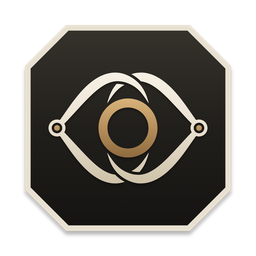
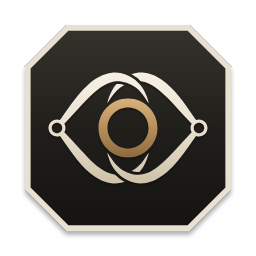
Caliper mark: remove the bronze dot in the hinge
Claude-Session: https://claude.ai/code/session_01VE6j3WRdUkYkmdJG6Q3Me5

diff --git a/site/index.html b/site/index.html
@@ -585,9 +585,7 @@
       <g id="hm-Caliper">
         <path id="hm-Iris" d="M630 512 C630 577.17 577.17 630 512 630 C446.83 630 394 577.17 394 512 C394 446.83 446.83 394 512 394 C577.17 394 630 446.83 630 512 Z M512 430 C466.713 430 430 466.713 430 512 C430 557.287 466.713 594 512 594 C557.287 594 594 557.287 594 512 C594 466.713 557.287 430 512 430 Z" fill="url(#hm-linear-gradient-2)" fill-rule="evenodd"/>
         <path id="hm-Left_caliper" data-name="Left caliper" d="M447.599 290.933 C460.479 289.59 473.418 290.314 486.063 293.111 C497.138 295.644 507.746 299.695 517.81 304.95 C534.417 313.74 549.475 325.272 561.469 339.795 C572.397 353.093 580.397 368.412 586.436 384.474 C588.711 390.551 590.736 396.721 592.514 402.962 C593.433 406.209 594.77 409.791 594.92 413.18 C593.57 411.854 592.543 410.104 591.478 408.549 C589.664 405.892 587.895 403.205 586.119 400.524 C581.046 392.869 575.908 385.254 570.288 377.987 C561.956 367.246 552.534 357.381 541.546 349.328 C530.758 341.46 518.754 335.508 506.19 331.05 C488.957 325.043 470.779 322.972 452.792 326.513 C433.184 330.498 415.436 340.334 399.371 351.977 C382.234 364.478 366.72 379.084 351.767 394.084 C336.611 409.32 322.023 425.108 307.482 440.927 C290.881 458.992 274.36 477.137 257.341 494.811 C260.302 499.854 262 505.729 262 512 C262 518.271 260.302 524.146 257.341 529.189 C277.914 550.553 297.758 572.604 317.899 594.373 C329.208 606.589 340.61 618.724 352.365 630.516 C367.966 646.133 384.193 661.34 402.263 674.092 C419.733 686.336 439.224 696.197 460.645 698.718 C462.75 700.365 464.538 702.578 466.493 704.414 C469.98 707.673 473.623 710.757 477.404 713.67 C481.821 717.055 486.414 720.197 491.153 723.113 C493.54 724.574 496.142 725.812 498.434 727.407 C481.48 733.04 463.71 734.975 445.955 732.879 C428.609 730.712 412.037 724.913 396.601 716.801 C369.308 702.292 346.01 681.3 325.354 658.528 C302.151 632.839 282.081 604.569 262.348 576.189 C254.855 565.408 247.4 554.6 239.794 543.899 C236.119 545.258 232.146 546 228 546 C209.222 546 194 530.778 194 512 C194 493.222 209.222 478 228 478 C232.146 478 236.119 478.742 239.793 480.101 C248.808 467.418 257.612 454.588 266.516 441.827 C281.617 420.197 297.028 398.753 313.985 378.526 C326.516 363.632 339.876 349.419 354.554 336.614 C380.952 313.73 412.278 294.859 447.599 290.933 Z M228 491 C216.402 491 207 500.402 207 512 C207 523.598 216.402 533 228 533 C239.598 533 249 523.598 249 512 C249 500.402 239.598 491 228 491 Z M592.015 614.669 C592.916 613.369 593.788 611.932 594.92 610.82 C594.796 613.615 593.753 616.538 593.02 619.224 C591.649 624.214 590.102 629.156 588.411 634.047 C581.579 653.726 572.049 672.488 558.112 688.118 C556.135 688.513 553.909 688.347 551.899 688.329 C547.771 688.265 543.666 687.903 539.586 687.272 C536.553 686.783 533.552 686.152 530.575 685.395 C529.204 685.037 527.669 684.778 526.397 684.146 C536.578 678.725 545.941 671.944 554.283 663.98 C562.036 656.548 568.844 648.222 575.13 639.53 C579.527 633.436 583.67 627.167 587.822 620.905 C589.207 618.818 590.593 616.731 592.015 614.669 Z" fill="url(#hm-linear-gradient-3)"/>
-        <path id="hm-Left_pivot" d="M239.5 512 C239.5 518.351 234.351 523.5 228 523.5 C221.649 523.5 216.5 518.351 216.5 512 C216.5 505.649 221.649 500.5 228 500.5 C234.351 500.5 239.5 505.649 239.5 512 Z" fill="url(#hm-linear-gradient-4)"/>
         <path id="hm-Right_caliper" data-name="Right caliper" d="M525.566 296.593 C542.52 290.96 560.29 289.025 578.045 291.121 C595.391 293.288 611.963 299.087 627.399 307.199 C654.692 321.708 677.99 342.7 698.646 365.472 C721.849 391.161 741.919 419.431 761.652 447.811 C769.145 458.592 776.6 469.4 784.206 480.101 C787.881 478.742 791.854 478 796 478 C814.778 478 830 493.222 830 512 C830 530.778 814.778 546 796 546 C791.854 546 787.881 545.258 784.207 543.899 C775.192 556.582 766.388 569.412 757.484 582.173 C742.383 603.803 726.972 625.247 710.015 645.474 C697.484 660.368 684.124 674.581 669.446 687.386 C643.048 710.27 611.722 729.141 576.401 733.067 C563.521 734.41 550.582 733.686 537.937 730.889 C526.862 728.356 516.254 724.305 506.19 719.05 C489.583 710.26 474.525 698.728 462.531 684.205 C451.603 670.907 443.603 655.588 437.564 639.526 C435.289 633.449 433.264 627.279 431.486 621.038 C430.567 617.791 429.23 614.209 429.08 610.82 C430.43 612.146 431.457 613.896 432.522 615.451 C434.336 618.108 436.105 620.795 437.881 623.476 C442.954 631.131 448.092 638.746 453.712 646.013 C462.044 656.754 471.466 666.619 482.454 674.672 C493.242 682.54 505.246 688.492 517.81 692.95 C535.043 698.957 553.221 701.028 571.208 697.487 C590.816 693.502 608.564 683.666 624.629 672.023 C641.766 659.522 657.28 644.916 672.233 629.916 C687.389 614.68 701.977 598.892 716.518 583.073 C733.119 565.008 749.64 546.863 766.659 529.189 C763.698 524.146 762 518.271 762 512 C762 505.729 763.698 499.854 766.659 494.811 C746.086 473.447 726.242 451.395 706.101 429.627 C694.792 417.411 683.39 405.276 671.635 393.484 C656.034 377.867 639.807 362.66 621.737 349.908 C604.267 337.664 584.776 327.803 563.355 325.282 C561.25 323.635 559.462 321.422 557.507 319.586 C554.02 316.327 550.377 313.243 546.596 310.33 C542.179 306.945 537.586 303.803 532.847 300.887 C530.46 299.426 527.858 298.188 525.566 296.593 Z M465.888 335.882 C467.865 335.487 470.091 335.653 472.101 335.671 C476.229 335.735 480.334 336.097 484.414 336.728 C487.447 337.217 490.448 337.848 493.425 338.605 C494.796 338.963 496.331 339.222 497.603 339.854 C487.422 345.275 478.059 352.056 469.717 360.02 C461.964 367.452 455.156 375.778 448.87 384.47 C444.473 390.564 440.33 396.833 436.178 403.095 C434.793 405.182 433.407 407.269 431.985 409.331 C431.084 410.631 430.212 412.068 429.08 413.18 C429.204 410.385 430.247 407.462 430.98 404.776 C432.351 399.786 433.898 394.844 435.589 389.953 C442.421 370.274 451.951 351.512 465.888 335.882 Z M796 491 C784.402 491 775 500.402 775 512 C775 523.598 784.402 533 796 533 C807.598 533 817 523.598 817 512 C817 500.402 807.598 491 796 491 Z" fill="url(#hm-linear-gradient-3)"/>
-        <path id="hm-Right_pivot" d="M807.5 512 C807.5 518.351 802.351 523.5 796 523.5 C789.649 523.5 784.5 518.351 784.5 512 C784.5 505.649 789.649 500.5 796 500.5 C802.351 500.5 807.5 505.649 807.5 512 Z" fill="url(#hm-linear-gradient-4)"/>
       </g>
     </g>
   </g></g></svg>
